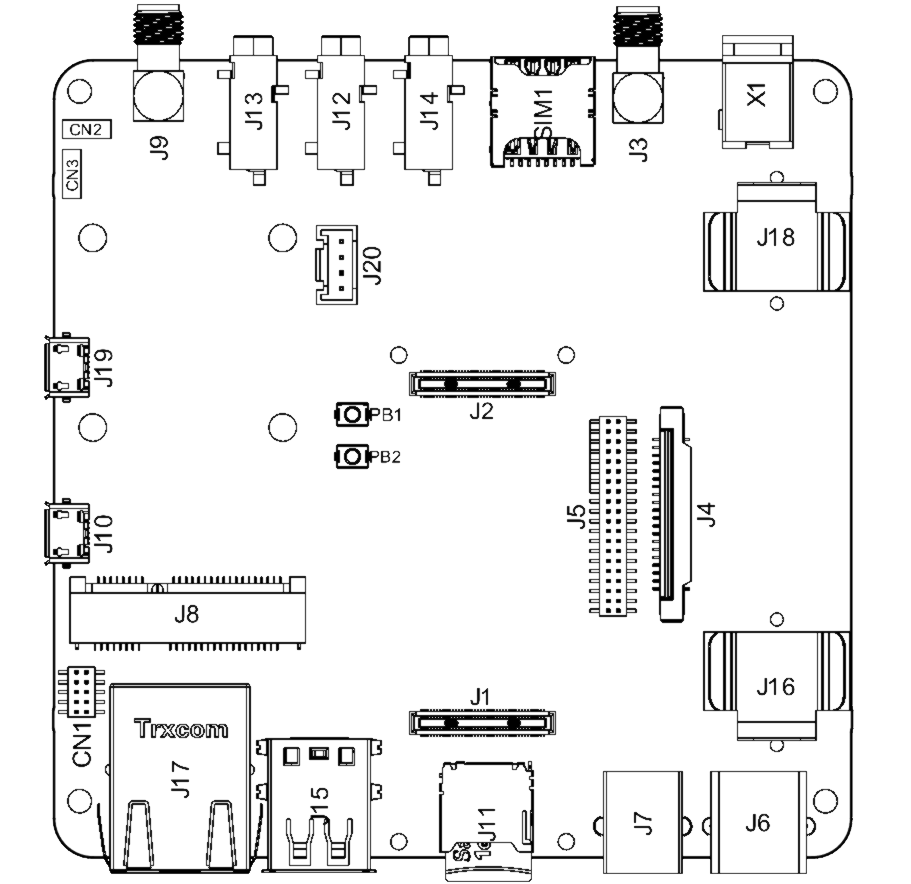
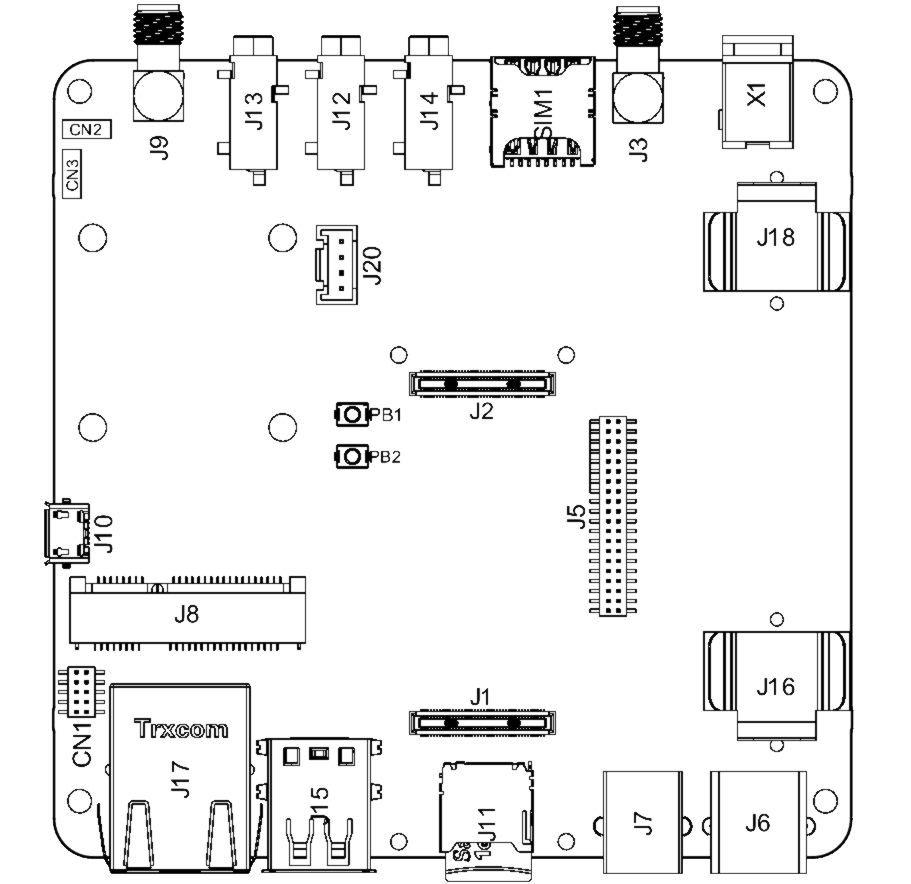
Remove mention of J19 in DS and assets

Changed region(s): [[0.7069, 0.4581, 0.7991, 0.7025], [0.0307, 0.3665, 0.1229, 0.4581]]

diff --git a/content/hardware/04.pro/carriers/portenta-max-carrier/datasheet/datasheet.md b/content/hardware/04.pro/carriers/portenta-max-carrier/datasheet/datasheet.md
@@ -103,7 +103,7 @@ The Arduino® Portenta Max Carrier provides the user with almost limitless possi
 | J12      | SJ-3524-SMT-TR 3.5mm Headphone Out                     | J13            | SJ-3524-SMT-TR 3.5mm Line In Right                        |
 | J14      | SJ-3524-SMT-TR 3.5mm Line In Left                      | J15            | 61400826021 2-port USB 2.0 Female Connector               |
 | J16      | 254TR Positive Li-ion Terminal                         | J17            | TRJK7003A97NL Gigabit Ethernet Connector                  |
-| J18      | 254TR Negative Li-ion Terminal                         | J19            | ZX62-AB-5PA(31) Micro USB Debugger Connector without VBUS |
+| J18      | 254TR Negative Li-ion Terminal                         |             |  |
 | J20      | 110990030 Connector for Speaker                  | X1             | PJ-102A 5.5mm Power Jack Adapter                          |
 | CN1      | FTSH-105-01-F-DV 10-pin JTAG Header                    | CN2            | Debug Header                                              |
 | CN3      | LoRa® Debug Header                                     | SIM1           | 2199337-5 microSIM Card Holder (for on-board modem)       |
@@ -111,7 +111,7 @@ The Arduino® Portenta Max Carrier provides the user with almost limitless possi
 | PB1      | PTS820J25KSMTRLFS Power On Button                      | PB2            | PTS820J25KSMTRLFS Reset Button                            |
 
 ### Debugger 
-Debugging capabilities are integrated directly into the Portenta Max Carrier and are accessible via microUSB with (J10) and without (U19) VBUS. The J-link debugger is compatible with the Segger® J-Link OB and Blackmagic probes, driven by the STM32F405RGT6 controller (U15). In addition to providing access to the Portenta board JTAG ports, different sniffer channels for I2C, CAN and UART lines.  The debugger firmware can be updated via SWD on CN3. Additionally, headers for debugging the LoRa® are accessible via CN2 with SWD.
+Debugging capabilities are integrated directly into the Portenta Max Carrier and are accessible via microUSB (J10). The J-link debugger is compatible with the Segger® J-Link OB and Blackmagic probes, driven by the STM32F405RGT6 controller (U15). In addition to providing access to the Portenta board JTAG ports, different sniffer channels for I2C, CAN and UART lines.  The debugger firmware can be updated via SWD on CN3. Additionally, headers for debugging the LoRa® are accessible via CN2 with SWD.
 
 ### Audio
 The Arduino Portenta Max Carrier enables connection connections to analog audio channels. This is done through the low power CS42L52 stereo CODEC providing ADC/DAC between analog signals and the I2S protocol. An internal Class D amplifier eliminates the need for external audio amplification circuitry. Configuration of the CS42L52 is achieved over I2C. The CS42L52 IC operates over the 1V8 rail.
@@ -245,15 +245,6 @@ Voltage range and max current are provided as a general guideline only. Consult 
 | Pin | **Function** | **Type**     | **Description**         |
 | --- | ------------ | ------------ | ----------------------- |
 | 1   | VBUS         | Power        | Connected to +5V_DBG    |
-| 2   | D-           | Differential | USB differential data - |
-| 3   | D+           | Differential | USB differential data + |
-| 4   | ID           | Digital      | Not Connected           |
-| 5   | GND          | Power        | Ground                  |
-
-### USB DBG1 (J19)
-| Pin | **Function** | **Type**     | **Description**         |
-| --- | ------------ | ------------ | ----------------------- |
-| 1   | VBUS         | Power        | Pulled down             |
 | 2   | D-           | Differential | USB differential data - |
 | 3   | D+           | Differential | USB differential data + |
 | 4   | ID           | Digital      | Not Connected           |
